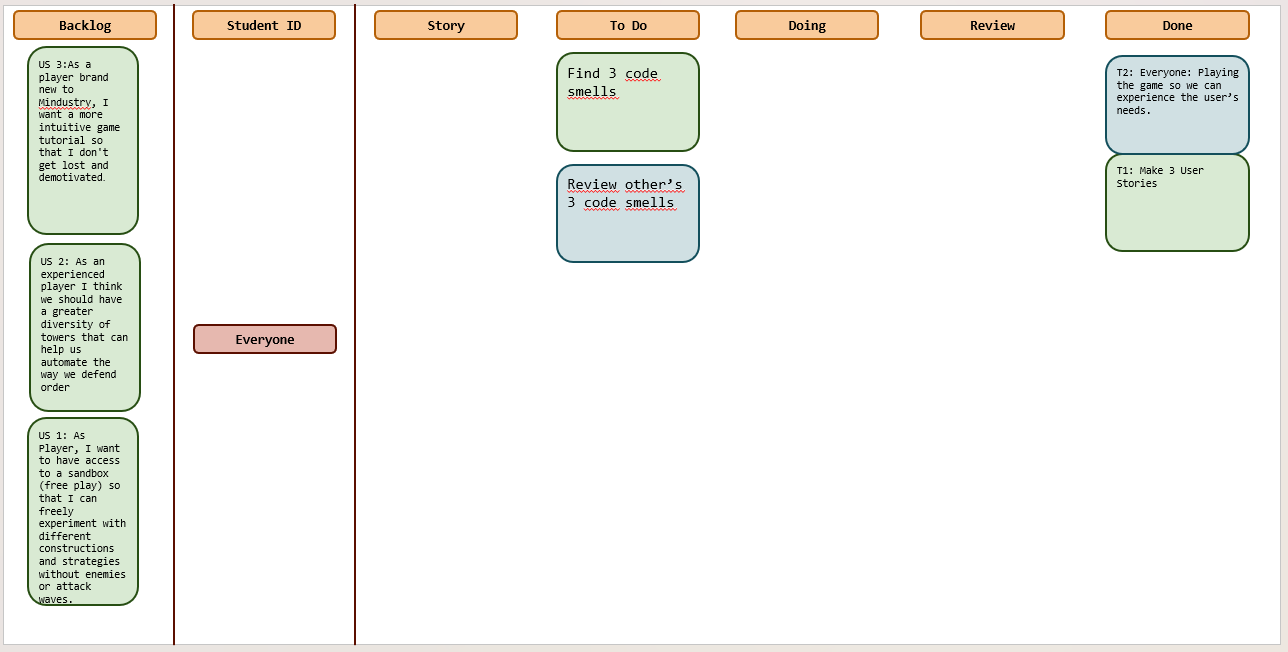
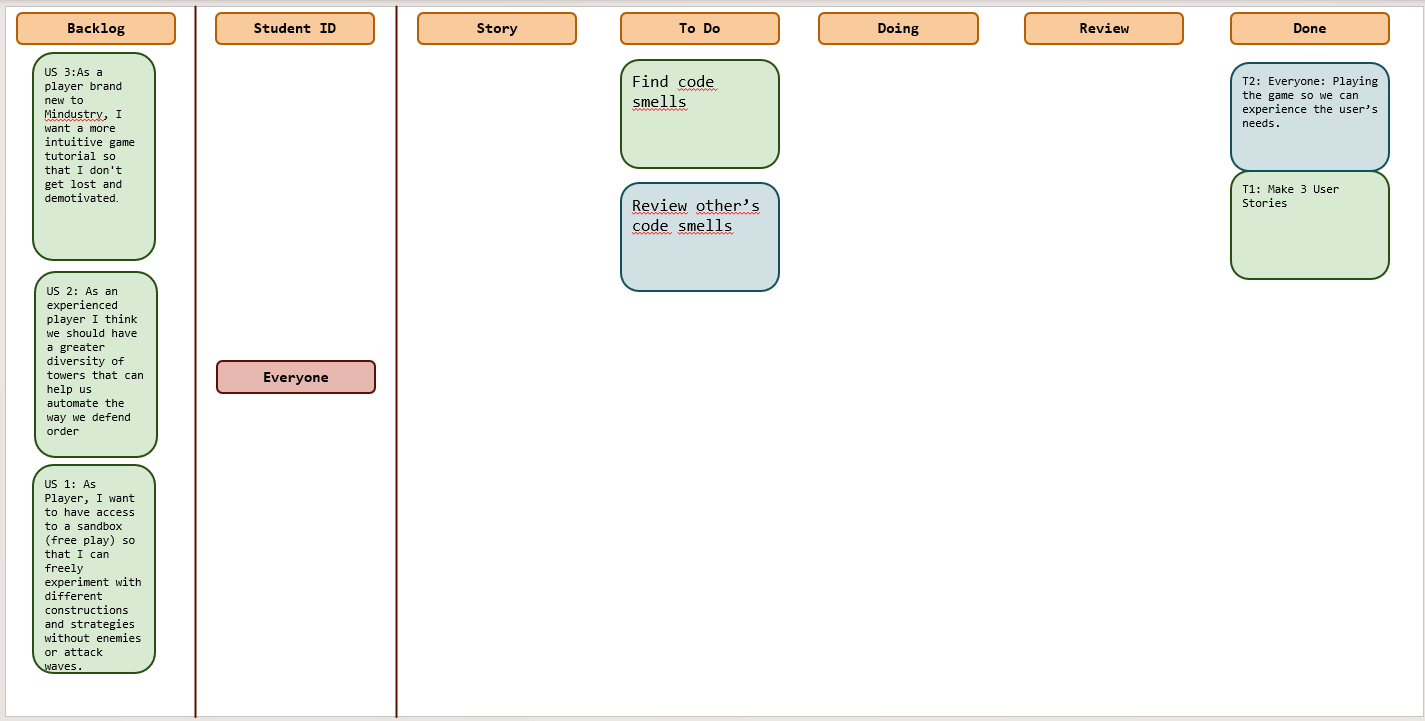
ScrumBoard Sprint3 Updated

Changed region(s): [[0.0, 0.0, 1.0, 1.0], [0.4348, 0.3988, 0.528, 0.4294]]

diff --git a/SE202526/Management/Sprint3/README.md b/SE202526/Management/Sprint3/README.md
@@ -31,7 +31,7 @@ Tasks:
 
 ### Scrum Board in the middle of the sprint
 
-Please add the scrumboard picture here.
+![ScrumBoard Middle](Scrum_Board_Sprint_3_mid.png)
 
 ### Scrum Board at the end of the sprint
 
